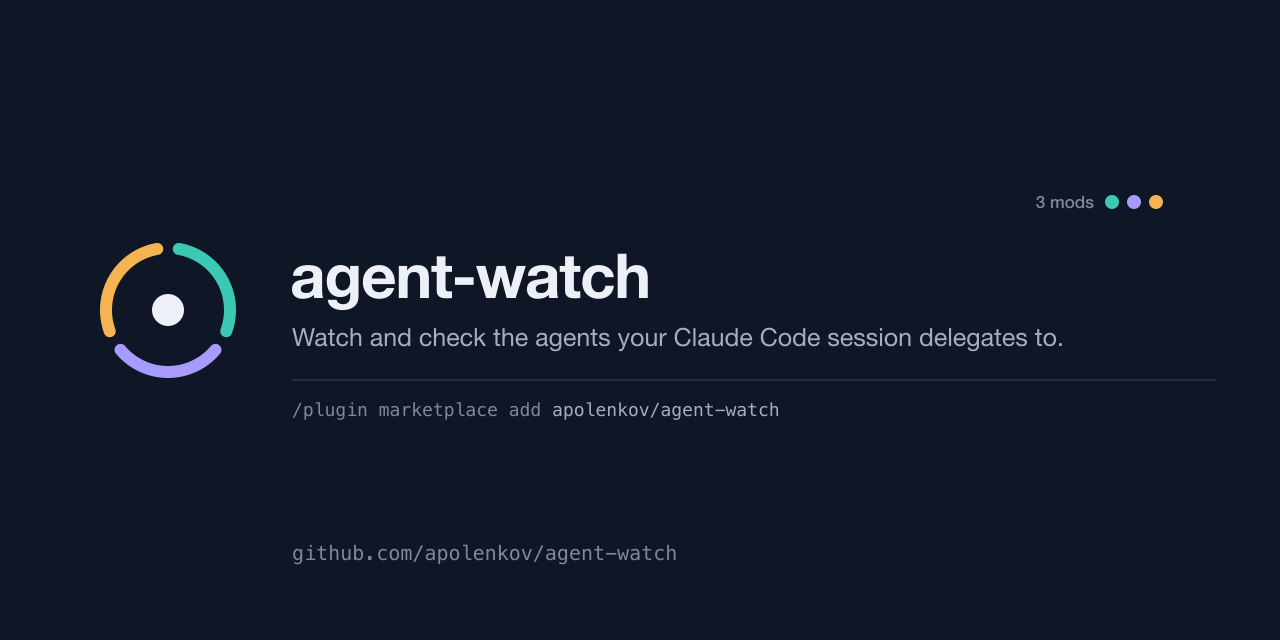
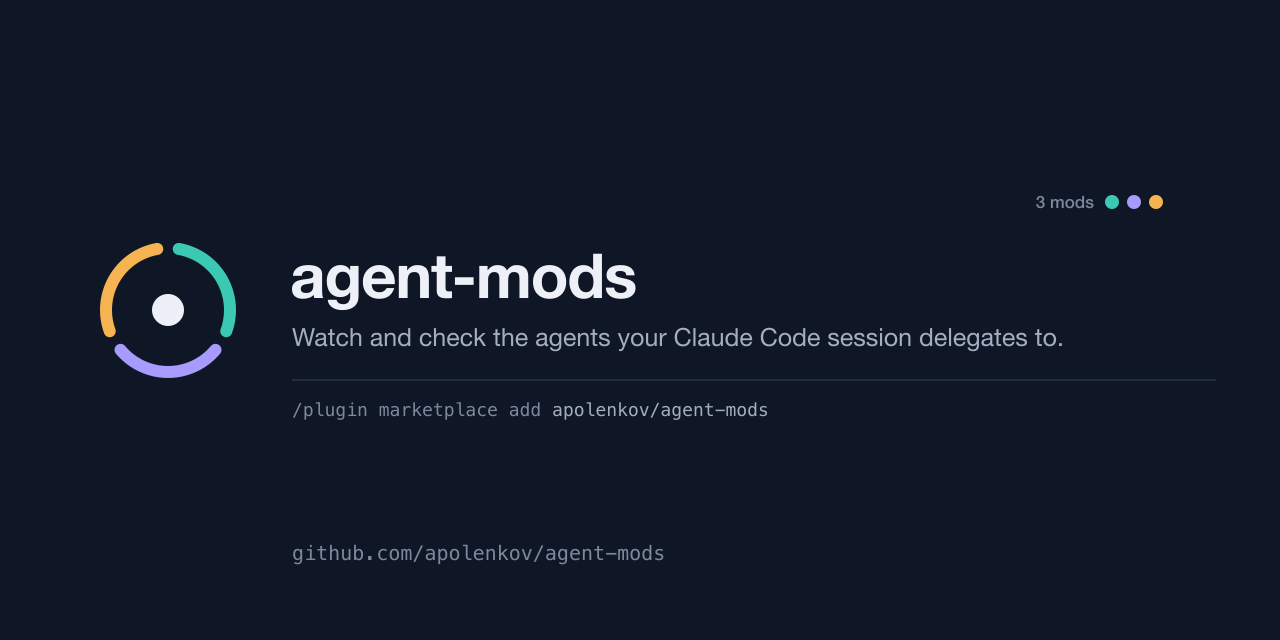
docs(repo): rename the showcase marketplace to agent-mods (#7)
The showcase repository apolenkov/agent-watch is now apolenkov/agent-mods:
the old name was easy to confuse with the agent-shell-watch mod. Install
commands, plugin ids (@agent-mods), links, badges, banners and the social
preview follow the new name. GitHub redirects the old URLs.

Changed region(s): [[0.375, 0.375, 0.5312, 0.4688], [0.5625, 0.625, 0.625, 0.6562], [0.4688, 0.8438, 0.5312, 0.875]]

diff --git a/README.md b/README.md
@@ -1,13 +1,13 @@
 <picture>
   <source media="(prefers-color-scheme: dark)" srcset=".github/assets/banner-dark.svg">
-  <img alt="agent-watch: watch and check the agents your Claude Code session delegates to" src=".github/assets/banner-light.svg" width="100%">
+  <img alt="agent-mods: watch and check the agents your Claude Code session delegates to" src=".github/assets/banner-light.svg" width="100%">
 </picture>
 
-[![ci](https://github.com/apolenkov/agent-watch/actions/workflows/ci.yml/badge.svg)](https://github.com/apolenkov/agent-watch/actions/workflows/ci.yml)
-[![codeql](https://github.com/apolenkov/agent-watch/actions/workflows/codeql.yml/badge.svg)](https://github.com/apolenkov/agent-watch/actions/workflows/codeql.yml)
+[![ci](https://github.com/apolenkov/agent-mods/actions/workflows/ci.yml/badge.svg)](https://github.com/apolenkov/agent-mods/actions/workflows/ci.yml)
+[![codeql](https://github.com/apolenkov/agent-mods/actions/workflows/codeql.yml/badge.svg)](https://github.com/apolenkov/agent-mods/actions/workflows/codeql.yml)
 [![license: MIT](https://img.shields.io/badge/license-MIT-blue.svg)](LICENSE)
 [![Claude Code ≥ 2.1.287](https://img.shields.io/badge/Claude%20Code-%E2%89%A5%202.1.287-1C60A3)](https://claude.com/claude-code)
-[![OpenSSF Scorecard](https://api.scorecard.dev/projects/github.com/apolenkov/agent-watch/badge)](https://scorecard.dev/viewer/?uri=github.com/apolenkov/agent-watch)
+[![OpenSSF Scorecard](https://api.scorecard.dev/projects/github.com/apolenkov/agent-mods/badge)](https://scorecard.dev/viewer/?uri=github.com/apolenkov/agent-mods)
 
 A showcase marketplace of [Claude Code](https://claude.com/claude-code) mods
 that watch and check the agents your session delegates to. Each mod lives, is
@@ -55,10 +55,10 @@ Mods are Claude Code plugins built on function hooks. You need Claude Code
 **2.1.287+**, where mods are on by default.
 
 ```
-/plugin marketplace add apolenkov/agent-watch
-/plugin install agent-shell-watch@agent-watch
-/plugin install agent-council@agent-watch
-/plugin install agent-compact-advisor@agent-watch
+/plugin marketplace add apolenkov/agent-mods
+/plugin install agent-shell-watch@agent-mods
+/plugin install agent-council@agent-mods
+/plugin install agent-compact-advisor@agent-mods
 ```
 
 | Mod                                                                         | Needs                                                                      |
@@ -72,10 +72,13 @@ repository is also a marketplace of its own, e.g.
 `/plugin marketplace add apolenkov/agent-shell-watch`.
 
 > [!NOTE]
-> **Renamed on 2026-10-04.** The marketplace `claude-mods` is now
-> `agent-watch`, `shell-flow` is `agent-shell-watch` (command `/shell-watch`)
-> and `council` is `agent-council` (command still `/council`); reinstall under
-> the new names.
+> **Renamed.** The marketplace `claude-mods` became `agent-watch` on
+> 2026-10-04 and `agent-mods` on 2026-10-05 (the old name was easy to confuse
+> with the agent-shell-watch mod); `shell-flow` is `agent-shell-watch` (command
+> `/shell-watch`) and `council` is `agent-council` (command still `/council`).
+> Reinstall under the new names: `/plugin marketplace add apolenkov/agent-mods`,
+> install the mods `@agent-mods`, then uninstall the `@agent-watch` ones and
+> `/plugin marketplace remove agent-watch`.
 
 ## Privacy
 

diff --git a/CODE_OF_CONDUCT.md b/CODE_OF_CONDUCT.md
@@ -3,5 +3,5 @@
 This project follows the
 [Contributor Covenant, version 2.1](https://www.contributor-covenant.org/version/2/1/code_of_conduct/).
 Report unacceptable behaviour privately through
-[GitHub Security Advisories](https://github.com/apolenkov/agent-watch/security/advisories/new)
+[GitHub Security Advisories](https://github.com/apolenkov/agent-mods/security/advisories/new)
 or to the maintainer's GitHub profile contact.
